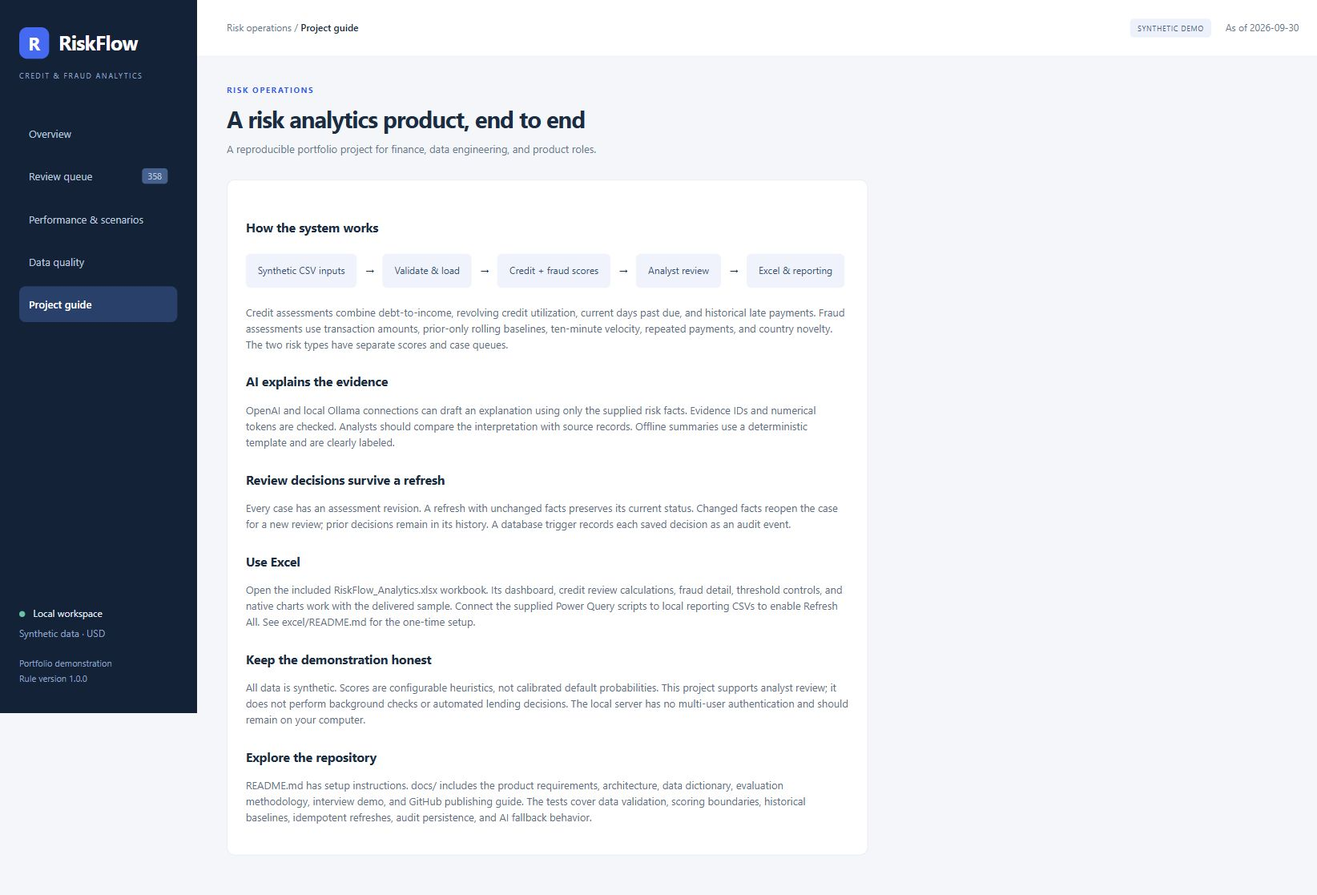
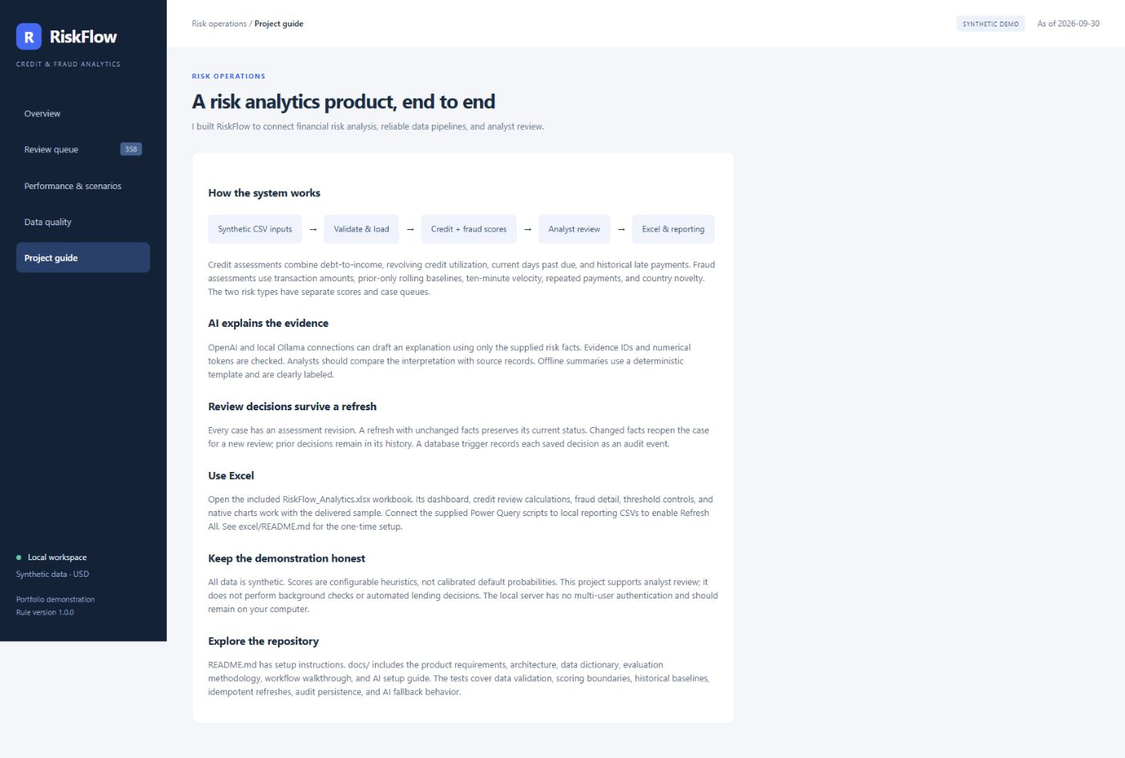
Describe RiskFlow in first person, remove coaching, and document AI setup

diff --git a/web/app.js b/web/app.js
@@ -25,7 +25,7 @@ function sourceTable(rows){if(!rows.length)return '<p>No records.</p>';const key
 async function openCase(id){activeCase=await api(`/api/case?id=${encodeURIComponent(id)}`);const c=activeCase;$('#case-content').innerHTML=`<div class="dialog-head"><div><p class="eyebrow">${esc(c.kind)} review · ${esc(c.customer_id)}</p><h2>${esc(c.case_id)}</h2><p class="intro">Score ${c.score}/100 · ${badge(c.band)} · ${usd(c.amount_cents)} ${c.kind==='credit'?'outstanding exposure':'transaction amount'}</p></div><button class="close" id="close-case" aria-label="Close case">×</button></div><div class="case-grid"><div><h3>Why this case was flagged</h3>${c.evidence.map(e=>`<div class="evidence"><div class="evidence-header"><strong>${esc(labels[e.id]||e.id)}</strong><span>+${e.points} points</span></div><p>${evidenceValue(e)}</p><small class="mono muted">${esc(e.id)}</small></div>`).join('')}<h3>Review summary</h3><div class="summary-tools"><select id="summary-provider" aria-label="Summary provider"><option value="offline">Offline template</option><option value="openai">OpenAI</option><option value="ollama">Local Ollama</option></select><button class="btn secondary" id="generate-summary">Generate summary</button></div><div id="summary-result" class="summary-box muted">Choose a summary provider. AI connections require local configuration.</div><details><summary>Source records${c.kind==='fraud'?' · latest 15 through this transaction':''}</summary>${sourceTable(c.source_records)}</details>${c.financial_profile?`<details><summary>Financial profile</summary>${sourceTable([c.financial_profile])}</details>`:''}</div><div><form class="review-form" id="decision-form"><h3>Record your review</h3><label>Analyst name<input id="analyst" required maxlength="64" value="${esc(c.analyst||localStorage.getItem('riskflow-analyst')||'')}"></label><label>Case status<select id="decision-status">${['Open','Investigating','Escalated','Closed - confirmed','Closed - false positive'].map(s=>`<option${s===c.status?' selected':''}>${s}</option>`).join('')}</select></label><label>Review notes<textarea id="notes" required minlength="5" maxlength="2000" placeholder="Record what you checked and why you chose this status.">${esc(c.notes)}</textarea></label><button class="btn" type="submit">Save review decision</button><p class="caption">“Confirmed” means an analyst-confirmed issue for this case type. Every saved decision creates an audit event.</p></form><details${c.history.length?' open':''}><summary>Review history (${c.history.length})</summary>${c.history.map(h=>`<div class="history-item"><strong>${esc(h.status)}</strong> · ${esc(h.analyst)}<p>${esc(h.notes)}</p><small class="muted">${esc(h.created_at)}${h.revision!==c.revision?' · previous assessment':''}</small></div>`).join('')||'<p class="muted">No decisions recorded yet.</p>'}</details></div></div>`;if(!$('#case-dialog').open)$('#case-dialog').showModal();$('#close-case').onclick=()=>$('#case-dialog').close();$('#generate-summary').onclick=async()=>{const button=$('#generate-summary');button.disabled=true;button.textContent='Generating…';try{const r=await api('/api/summary',{case_id:c.case_id,provider:$('#summary-provider').value});$('#summary-result').innerHTML=`${r.warning?`<div class="callout warning">${esc(r.warning)}</div>`:''}<p><strong>${r.provider==='offline-template'?'Offline template (no AI)':'AI explanation · '+esc(r.model)}</strong></p><p>${esc(r.summary)}</p><ul>${r.observations.map(o=>`<li>${esc(o.explanation)} <span class="mono">[${esc(o.evidence_id)}]</span></li>`).join('')}</ul><p>Next steps: ${r.next_steps.map(esc).join('; ')}.</p><small>${esc(r.validation)}</small>`;}catch(e){toast(e.message);}finally{button.disabled=false;button.textContent='Generate summary';}};$('#decision-form').onsubmit=async event=>{event.preventDefault();const button=event.target.querySelector('button');button.disabled=true;try{await api('/api/decision',{case_id:c.case_id,revision:c.revision,status:$('#decision-status').value,analyst:$('#analyst').value,notes:$('#notes').value});localStorage.setItem('riskflow-analyst',$('#analyst').value);await openCase(c.case_id);toast('Decision saved and audit event recorded.');await loadOverview();if(view==='queue')await fetchQueue();}catch(e){toast(e.message);}finally{button.disabled=false;}};}
 async function showAnalytics(){const e=await api('/api/evaluation');$('#content').innerHTML=heading('Understand the tradeoffs','Evaluate fixed rules against synthetic labels and preview the effect of review thresholds.')+`<section class="card"><div class="card-head"><h2>Synthetic benchmark</h2><span class="caption">Current review thresholds</span></div><div class="table-wrap"><table><thead><tr><th>Assessment</th><th>Threshold</th><th>Precision</th><th>Recall</th><th>False-positive rate</th><th>Alert rate</th></tr></thead><tbody>${Object.entries(e.results).map(([k,r])=>`<tr><td>${k==='credit'?'Credit review':'Fraud monitoring'}</td><td>${r.threshold}</td><td>${pct(r.precision)}</td><td>${pct(r.recall)}</td><td>${pct(r.false_positive_rate)}</td><td>${pct(r.alert_rate)}</td></tr>`).join('')}</tbody></table></div><div class="callout">Credit labels are simulated future defaults; fraud labels are injected transaction outcomes. These results describe this synthetic dataset and do not establish performance on real customers.</div></section><div class="grid-two scenarios">${['credit','fraud'].map(k=>`<section class="card"><div class="card-head"><h2>${k==='credit'?'Credit review':'Fraud monitoring'} threshold</h2></div><div class="range-row"><label for="${k}-threshold">Minimum review score</label><output id="${k}-value">40</output></div><input id="${k}-threshold" type="range" min="1" max="100" value="40"><div class="scenario-result" id="${k}-scenario"></div><p class="caption">Preview only. To change saved assessments, edit config/rules.json and rerun the pipeline.</p></section>`).join('')}</div><div class="download-links"><a href="/api/download?name=threshold_sensitivity.csv" download="threshold_sensitivity.csv">Download threshold sensitivity</a></div>`;for(const k of ['credit','fraud']){let timer;const update=async()=>{const n=$(`#${k}-threshold`).value;$(`#${k}-value`).textContent=n;const r=await api(`/api/scenario?kind=${k}&threshold=${n}`);$(`#${k}-scenario`).innerHTML=`<strong>${num(r.reviewed_records)} records</strong><span>${usd(r.reviewed_amount_cents)} ${k==='credit'?'exposure':'transaction volume'}</span>`;};$(`#${k}-threshold`).oninput=()=>{clearTimeout(timer);timer=setTimeout(()=>update().catch(e=>toast(e.message)),120);};await update();}}
 async function showQuality(){const d=await loadOverview();const r=d.latest_run;if(!r)throw Error('Run the pipeline first');const stats=JSON.parse(r.stats_json);$('#content').innerHTML=heading('Trust starts with the data','Validate source records, quarantine invalid transactions, and reconcile every accepted row.')+`<div class="metrics">${metric('Accepted transactions',num(stats.transactions.accepted_rows),'Loaded and scored exactly once')}${metric('Quarantined transactions',num(stats.transactions.rejected_rows),'Intentional defects in demo inputs')}${metric('Source systems',4,'Customers, loans, payments, transactions')}${metric('Latest pipeline duration',r.duration_seconds.toFixed(2)+'s','Measured local wall-clock runtime')}</div><section class="card"><div class="card-head"><h2>Validation results</h2><span class="caption">Latest successful run</span></div><table><thead><tr><th>Source</th><th>Input rows</th><th>Accepted</th><th>Rejected</th></tr></thead><tbody>${Object.entries(stats).map(([k,v])=>`<tr><td>${esc(k)}</td><td>${num(v.input_rows)}</td><td>${num(v.accepted_rows)}</td><td>${v.rejected_rows}</td></tr>`).join('')}</tbody></table><div class="callout">Accepted transaction counts and amounts reconciled to the database before commit. Five example defects exercise duplicate, missing-value, foreign-key, amount, and future-date checks.</div><p class="caption">Run: <span class="mono">${esc(r.run_id)}</span><br>Input SHA-256: <span class="mono">${esc(r.input_hash)}</span><br>Rules SHA-256: <span class="mono">${esc(r.rules_hash)}</span></p></section><div class="download-links"><a href="/api/download?name=quarantine.csv" download="quarantine.csv">Download quarantine log</a><a href="/api/download?name=audit_events.csv" download="audit_events.csv">Download analyst audit events</a></div>`;}
-function showAbout(){$('#content').innerHTML=heading('A risk analytics product, end to end','A reproducible portfolio project for finance, data engineering, and product roles.')+`<section class="card prose"><h2>How the system works</h2><div class="flow"><span>Synthetic CSV inputs</span>→<span>Validate & load</span>→<span>Credit + fraud scores</span>→<span>Analyst review</span>→<span>Excel & reporting</span></div><p>Credit assessments combine debt-to-income, revolving credit utilization, current days past due, and historical late payments. Fraud assessments use transaction amounts, prior-only rolling baselines, ten-minute velocity, repeated payments, and country novelty. The two risk types have separate scores and case queues.</p><h2>AI explains the evidence</h2><p>OpenAI and local Ollama connections can draft an explanation using only the supplied risk facts. Evidence IDs and numerical tokens are checked. Analysts should compare the interpretation with source records. Offline summaries use a deterministic template and are clearly labeled.</p><h2>Review decisions survive a refresh</h2><p>Every case has an assessment revision. A refresh with unchanged facts preserves its current status. Changed facts reopen the case for a new review; prior decisions remain in its history. A database trigger records each saved decision as an audit event.</p><h2>Use Excel</h2><p>Open the included RiskFlow_Analytics.xlsx workbook. Its dashboard, credit review calculations, fraud detail, threshold controls, and native charts work with the delivered sample. Connect the supplied Power Query scripts to local reporting CSVs to enable Refresh All. See excel/README.md for the one-time setup.</p><h2>Keep the demonstration honest</h2><p>All data is synthetic. Scores are configurable heuristics, not calibrated default probabilities. This project supports analyst review; it does not perform background checks or automated lending decisions. The local server has no multi-user authentication and should remain on your computer.</p><h2>Explore the repository</h2><p>README.md has setup instructions. docs/ includes the product requirements, architecture, data dictionary, evaluation methodology, interview demo, and GitHub publishing guide. The tests cover data validation, scoring boundaries, historical baselines, idempotent refreshes, audit persistence, and AI fallback behavior.</p></section>`;}
+function showAbout(){$('#content').innerHTML=heading('A risk analytics product, end to end','I built RiskFlow to connect financial risk analysis, reliable data pipelines, and analyst review.')+`<section class="card prose"><h2>How the system works</h2><div class="flow"><span>Synthetic CSV inputs</span>→<span>Validate & load</span>→<span>Credit + fraud scores</span>→<span>Analyst review</span>→<span>Excel & reporting</span></div><p>Credit assessments combine debt-to-income, revolving credit utilization, current days past due, and historical late payments. Fraud assessments use transaction amounts, prior-only rolling baselines, ten-minute velocity, repeated payments, and country novelty. The two risk types have separate scores and case queues.</p><h2>AI explains the evidence</h2><p>OpenAI and local Ollama connections can draft an explanation using only the supplied risk facts. Evidence IDs and numerical tokens are checked. Analysts should compare the interpretation with source records. Offline summaries use a deterministic template and are clearly labeled.</p><h2>Review decisions survive a refresh</h2><p>Every case has an assessment revision. A refresh with unchanged facts preserves its current status. Changed facts reopen the case for a new review; prior decisions remain in its history. A database trigger records each saved decision as an audit event.</p><h2>Use Excel</h2><p>Open the included RiskFlow_Analytics.xlsx workbook. Its dashboard, credit review calculations, fraud detail, threshold controls, and native charts work with the delivered sample. Connect the supplied Power Query scripts to local reporting CSVs to enable Refresh All. See excel/README.md for the one-time setup.</p><h2>Keep the demonstration honest</h2><p>All data is synthetic. Scores are configurable heuristics, not calibrated default probabilities. This project supports analyst review; it does not perform background checks or automated lending decisions. The local server has no multi-user authentication and should remain on your computer.</p><h2>Explore the repository</h2><p>README.md has setup instructions. docs/ includes the product requirements, architecture, data dictionary, evaluation methodology, workflow walkthrough, and AI setup guide. The tests cover data validation, scoring boundaries, historical baselines, idempotent refreshes, audit persistence, and AI fallback behavior.</p></section>`;}
 async function navigate(next){view=next;$('#breadcrumb').textContent=titles[next];document.querySelectorAll('.nav').forEach(b=>b.classList.toggle('active',b.dataset.view===next));$('#content').innerHTML='<p class="loading">Loading…</p>';try{await ({overview:showOverview,queue:showQueue,analytics:showAnalytics,quality:showQuality,about:showAbout}[next])();}catch(e){$('#content').innerHTML=heading('Workspace needs attention',esc(e.message))+`<div class="callout">From the project folder run <code>python -m riskflow demo</code>, then reload this page.</div>`;}}
 document.querySelectorAll('.nav').forEach(button=>button.onclick=()=>navigate(button.dataset.view));
 api('/api/session').then(s=>{csrf=s.csrf;return navigate('overview');}).catch(e=>{$('#content').textContent=e.message;});

diff --git a/README.md b/README.md
@@ -1,6 +1,6 @@
 # RiskFlow — Credit Risk & Fraud Analytics
 
-A local analyst workspace that turns synthetic financial records into separate credit assessments and transaction alerts, explains the evidence, records review decisions, and produces Excel reporting feeds.
+I built RiskFlow to explore how financial risk analysis, reliable data pipelines, and product design fit together in one analyst workflow. It turns synthetic financial records into separate credit assessments and transaction alerts, makes the supporting evidence visible, preserves review decisions, and feeds an Excel reporting layer.
 
 **Python · SQL · SQLite / MySQL · Excel · optional OpenAI / Ollama**
 
@@ -8,9 +8,26 @@ A local analyst workspace that turns synthetic financial records into separate c
 [![Python 3.11+](https://img.shields.io/badge/Python-3.11%2B-3776AB)](https://www.python.org/downloads/)
 [![License: MIT](https://img.shields.io/badge/License-MIT-54657A)](LICENSE)
 
-[Open the Excel workbook](excel/RiskFlow_Analytics.xlsx) · [Architecture](docs/ARCHITECTURE.md) · [Product requirements](docs/PRODUCT_REQUIREMENTS.md) · [Five-minute demo](docs/DEMO_WALKTHROUGH.md)
+[Open the Excel workbook](excel/RiskFlow_Analytics.xlsx) · [Architecture](docs/ARCHITECTURE.md) · [Product requirements](docs/PRODUCT_REQUIREMENTS.md) · [Workflow walkthrough](docs/DEMO_WALKTHROUGH.md) · [AI setup](docs/AI_SETUP.md)
 
 ![RiskFlow dashboard](docs/images/dashboard.jpg)
+
+## Why I built it
+
+My starting point was a SQL transaction-monitoring prototype. I wanted to take that foundation beyond a list of anomaly flags and build a workflow that answers three questions: what needs review, why was it flagged, and what happened after someone investigated it?
+
+The intersection of finance and technology is what interests me about this project. I wanted the financial indicators, data-quality checks, interface, and reporting outputs to tell the same story. That led me to keep credit review and fraud monitoring separate while bringing their evidence and review history into one workspace.
+
+## My design choices
+
+- **Make the score inspectable.** I used explicit rules so each case shows the observed value, trigger, and point contribution. The scores prioritize review; they are not default probabilities.
+- **Build trust in the inputs first.** I added strict data contracts, quarantine, integer-cent reconciliation, and atomic database refreshes before adding explanations.
+- **Respect time.** I calculate fraud baselines from prior observations so later transactions cannot influence an earlier assessment.
+- **Preserve the investigation.** I tied decisions to an assessment revision and retained audit history so a refresh does not silently erase review work.
+- **Give AI a bounded role.** I integrated optional OpenAI and local Ollama adapters to explain existing evidence. The rules determine scores, and the analyst records the decision.
+- **Keep reporting practical.** I included Excel formulas, adjustable thresholds, charts, and a Power Query connection path alongside the application.
+
+I used entirely synthetic data to make the work reproducible and shareable. The benchmark deliberately exposes false positives and missed cases; I treat those tradeoffs as part of the product problem.
 
 ## Visual walkthrough
 
@@ -208,7 +225,7 @@ Windows users can substitute `py -3` for `python`. macOS/Linux users can substit
 | AI | Optional Responses API and local Ollama adapters, structured explanations, evidence checks, numerical checks, visible offline fallback |
 | Excel | Populated workbook, formulas, adjustable thresholds, charts, filterable tables, reporting feeds, Power Query scripts and a Windows connection helper |
 | Measurement | Synthetic confusion matrices, precision/recall/false-positive rates, threshold sensitivity, measured pipeline runtime |
-| Portfolio documentation | PRD, architecture, data dictionary, methodology, demo walkthrough, role-specific resume language and GitHub publishing guide |
+| Documentation | My product requirements, architecture decisions, data dictionary, evaluation methodology, workflow walkthrough and integration setup |
 
 ## Reproduce the included benchmark
 
@@ -240,6 +257,8 @@ python -m unittest discover -s tests -v
 The delivered Excel workbook contains the 300-account baseline. The optional Excel refresh helper adjusts calculation rows and reporting ranges when the exported dataset changes. Review dashboard charts after refresh.
 
 ## Enable AI explanations
+
+I implemented both provider adapters in `riskflow/ai.py`. Live use requires local configuration; the published screenshots use the explicitly labeled offline template. See the [step-by-step AI setup](docs/AI_SETUP.md), including how to verify a real provider response.
 
 ### OpenAI
 
@@ -286,26 +305,25 @@ web/               Dashboard HTML, CSS and JavaScript
 data/raw/          Reproducible synthetic CSVs and evaluation-only labels
 reports/           Generated benchmark, reporting CSVs and QA evidence
 excel/             Populated workbook, Power Query scripts, refresh helper
-docs/              Product/design/methodology/demo/GitHub guides
+docs/              Product requirements, design decisions, evaluation and setup
 tests/             Unit and integration tests
 .github/workflows/  Windows/Linux core checks and live MySQL CI job
 ```
 
 ## Project boundaries and verification
 
-The project implements a complete **local portfolio demonstration**. It does not include background checks, automated credit approval, a calibrated credit model, bank integrations, production authentication, or a deployed cloud service. The synthetic generator makes both normal anomalies and subtle injected fraud, so the rules visibly miss cases and generate false positives.
+I scoped RiskFlow as a reproducible **local risk analytics application**. It does not include background checks, automated credit approval, a calibrated credit model, bank integrations, production authentication, or a deployed cloud service. The synthetic generator makes both normal anomalies and subtle injected fraud, so the rules visibly miss cases and generate false positives.
 
-See [verification report](docs/VERIFICATION.md) for what was actually run, what used mocked API responses, and which integrations need verification on your machine. The local HTTP server binds to loopback and should stay local.
+I document completed checks, mocked provider tests, and remaining integration limits in the [verification report](docs/VERIFICATION.md). The local HTTP server binds to loopback and should stay local.
 
-## Put it on GitHub
+## What I would build next
 
-Follow [the step-by-step GitHub guide](docs/GITHUB_GUIDE.md). Publish the **extracted project contents**, not just the ZIP. The included `.gitignore` excludes keys, local databases, virtual environments and generated AI summaries.
+My next priorities are evaluation on a permitted dataset with an untouched temporal test period, cost-sensitive thresholds, and analyst usability testing. A calibrated credit model would be a separate addition to the current review-priority rules. A hosted version would also need authentication, access controls, and operational monitoring.
 
 ## References
 
 - [OpenAI Structured Outputs](https://developers.openai.com/api/docs/guides/structured-outputs): optional structured explanation contract.
 - [MySQL Connector/Python connection documentation](https://dev.mysql.com/doc/connector-python/en/connector-python-example-connecting.html): optional database adapter.
-- [GitHub's import guide](https://docs.github.com/en/migrations/importing-source-code/using-the-command-line-to-import-source-code/adding-locally-hosted-code-to-github): publication workflow.
 
 ## License
 

diff --git a/docs/DEMO_WALKTHROUGH.md b/docs/DEMO_WALKTHROUGH.md
@@ -1,21 +1,37 @@
-# Five-minute interview demonstration
+# RiskFlow workflow walkthrough
 
-Start with `python -m riskflow demo` then `python -m riskflow serve`. Open the dashboard and example workbook before the interview.
+I designed the application around the path from an incoming financial record to an auditable review decision. This walkthrough follows that path using the included synthetic snapshot.
 
-1. **Problem and user (30 seconds).** “I built a synthetic analyst workspace to prioritize credit reviews and suspicious transactions, show the evidence, and capture review decisions.” Explain that a credit review priority and a fraud alert are different outcomes.
-2. **Portfolio view (45 seconds).** Show 300 accounts, outstanding loan exposure, 18,219 monitored transactions and the separate queues. Explain why transaction volume is not loan exposure and why a snapshot cannot show loan-exposure growth.
-3. **Credit case (60 seconds).** Open `credit:C0005`. Inspect DTI, utilization, days past due and late history. Show the repayment records. Discuss why fully paid but late installments are not currently overdue. Save a clearly identified demonstration note with status Investigating.
-4. **Fraud case (60 seconds).** In the queue filter Type to Fraud monitoring. Open a case with amount/velocity/repeated-payment evidence. Explain how the baseline excludes the current transaction and later records. An alert means “review,” not proven fraud.
-5. **AI and review history (30 seconds).** Generate the offline template, or a live AI summary if configured and already tested. Show evidence IDs and explain the checks and limitations. Demonstrate that a saved decision creates an audit event and that unchanged reruns preserve status.
-6. **Measurement and Excel (60 seconds).** Show synthetic precision/recall and move a review-threshold slider. Discuss review workload versus misses. Open Excel, change the credit review threshold in Controls, and show the count/credit bands update. Reset it to 40. Explain the optional CSV/Power Query refresh.
-7. **Close with a tradeoff (15 seconds).** “I chose a reproducible batch workflow and transparent heuristics first. The next evidence-gathering step would be a permitted dataset and a temporal holdout, plus analyst usability testing.”
+## Start the workspace
 
-## Questions to prepare for
+Run `python -m riskflow demo`, then `python -m riskflow serve`. Open http://127.0.0.1:8000 and `excel/RiskFlow_Analytics.xlsx`.
 
-- Why are the scores not default probabilities? Because weights are illustrative; there is no fitted/calibrated model.
-- How do you prevent leakage? Separate label file; cutoff validation; prior-only transaction baselines; append-after-score processing.
-- What if the job fails halfway? Current database data is replaced in one transaction; failures roll back. Filesystem report export is a separate post-commit step.
-- What happens to old reviews? Batch input/rules revision changes reopen current cases while history remains.
-- Why SQL and Python? SQL manages keys, indexes, views and audit triggers; Python handles strict ingestion and temporal feature/scoring logic.
-- What proves AI quality? Structural/reference/numeric checks and test fixtures; no claim that they fully verify semantics.
-- What did you learn or change yourself? Be specific about your own work; review the supplied code, run it and make an improvement you can defend.
+## Portfolio overview
+
+The overview contains 300 accounts and 18,219 accepted transactions. I separate outstanding loan exposure from transaction volume because they describe different financial quantities. Credit bands summarize the as-of loan snapshot; the activity chart shows fraud alerts over time.
+
+## Credit assessment
+
+Open `credit:C0005` from the queue. The evidence cards show debt-to-income, utilization, current days past due, and historical late payments. Expand Source records and Financial profile to inspect the inputs. I distinguish unpaid delinquency from fully paid installments that were late.
+
+Enter an analyst name, select Investigating, and save a clearly identified synthetic review note. The decision appears in review history and creates a database audit event.
+
+## Fraud investigation
+
+Filter the queue to Fraud monitoring and search for `T0014426`. This case combines an amount spike, rapid activity, and repeated payments into an 85-point review score. Expand its recent source records to inspect the payment burst. The baseline uses only earlier observations; the alert remains a reason to investigate, not proof of fraud.
+
+## Explanation and review history
+
+Generate an Offline template summary to inspect the evidence-linked format without an AI service. For a live provider, follow [AI setup](AI_SETUP.md) and choose OpenAI or Local Ollama. I validate evidence references and numerical tokens, while leaving interpretation and decisions with the analyst.
+
+An unchanged pipeline rerun preserves the current decision. Changed inputs or rules create a new revision and reopen the case while retaining history.
+
+## Thresholds and Excel
+
+Open Performance & scenarios to inspect synthetic precision, recall, false-positive rate, and workload at different cutoffs. Preview sliders do not overwrite stored rules.
+
+In Excel, change the credit review threshold on Controls and inspect the updated Dashboard count. Restore the baseline value of 40 when finished. The [Excel guide](../excel/README.md) explains how to connect Power Query, refresh reporting feeds, and create a native PivotTable.
+
+## Data quality
+
+The quality view reconciles accepted counts and transaction amounts and shows five intentional defects in quarantine. Source and rule hashes identify the snapshot behind each run. I included these controls so the reports can be traced back to validated inputs.

diff --git a/docs/AI_SETUP.md b/docs/AI_SETUP.md
@@ -1,0 +1,69 @@
+# Enable AI explanations
+
+I integrated two optional explanation providers in `riskflow/ai.py`: OpenAI's Responses API and a local Ollama service. Both receive the existing scored evidence and return a summary, cited observations, and suggested review steps. Neither provider calculates the risk score or records a decision.
+
+The default Offline template is deterministic and explicitly labeled **no AI**. The included AI tests use mocked provider responses; a successful live response must be verified separately after setup.
+
+## OpenAI setup on Windows
+
+1. Create an API key in the [OpenAI developer platform](https://platform.openai.com/api-keys) and configure API billing/access as required by that account. Keep the key private; do not paste it into GitHub, the browser source, or an issue.
+2. Open PowerShell in the extracted RiskFlow folder, which contains `README.md`. Create a local configuration file only if one does not already exist:
+
+   ```powershell
+   if (!(Test-Path .env)) { Copy-Item .env.example .env }
+   notepad .env
+   ```
+
+3. Fill in these two existing lines, save the file, and close Notepad:
+
+   ```dotenv
+   OPENAI_API_KEY=YOUR_PRIVATE_API_KEY
+   OPENAI_MODEL=YOUR_STRUCTURED_OUTPUTS_COMPATIBLE_MODEL_ID
+   ```
+
+   Replace both placeholders. Choose an API model available to the account that supports the Responses API and Structured Outputs. The model ID is an API identifier, not a ChatGPT display name. The existing Python adapter makes the HTTP request directly; an extra OpenAI SDK installation is not required.
+
+4. Generate the synthetic workspace if this is the first run:
+
+   ```powershell
+   python -m riskflow demo
+   ```
+
+5. Test one explanation:
+
+   ```powershell
+   python -m riskflow summary --provider openai --case credit:C0005
+   ```
+
+6. For the interface, run `python -m riskflow serve`, open http://127.0.0.1:8000, open a case, select **OpenAI**, and click **Generate summary**. Restart an existing RiskFlow server after changing configuration because already-loaded environment values take precedence.
+
+On Windows, `py -3` can replace `python` if needed. The `.env` file is excluded from Git and the packaged project.
+
+## Verify the live result
+
+A successful command response has `provider: "openai"`, the model identifier, cited `evidence_id` values, and no warning. The interface labels it **AI explanation**. Check the interpretation against the visible case evidence before using it.
+
+If the response instead has `provider: "offline-template"`, the live call or validation failed. A successful command exit alone does not prove a live AI call succeeded. Check API access/billing, the key, model compatibility, the network connection, and server restart. A provider response can also be rejected for unsupported evidence or invented numerical tokens.
+
+The validation checks structure, allowed next steps, references, numerical tokens, and selected disallowed decision language. It cannot establish that every generated sentence is factually correct.
+
+## Local Ollama option
+
+Install Ollama from its official site and start its local service. The adapter expects `http://127.0.0.1:11434`. The default model is `llama3.2`; download that model using `ollama pull llama3.2`, or set `OLLAMA_MODEL` in `.env` to an installed compatible model.
+
+Run:
+
+```powershell
+python -m riskflow summary --provider ollama --case credit:C0005
+```
+
+Alternatively choose **Local Ollama** in a case's summary menu. Confirm that the returned provider is `ollama`, rather than the fallback, and inspect the generated explanation.
+
+## Data flow
+
+I send only the synthetic case ID, risk type, score, band, evidence, and allowed next steps. Analyst notes, evaluation labels, and credentials are excluded from the fact packet. OpenAI requests use `store: false`; that setting is not a guarantee of zero retention under every service policy. Local summaries are saved under ignored `reports/summaries/` when invoked through the application or CLI.
+
+## References
+
+- [Official OpenAI developer quickstart](https://developers.openai.com/api/docs/quickstart): API keys and first requests.
+- [Official OpenAI Structured Outputs guide](https://developers.openai.com/api/docs/guides/structured-outputs): schema-constrained responses and supported model requirements.

diff --git a/docs/EVALUATION.md b/docs/EVALUATION.md
@@ -1,6 +1,6 @@
 # Evaluation and interpretation
 
-The benchmark uses 300 accounts and 18,219 valid transactions with a fixed seed of 42. Inputs are entirely synthetic. There are 80 simulated future-default accounts and 170 injected fraud transactions. The rule thresholds were fixed for this demonstration; the sensitivity grid is descriptive. There is no trained model or held-out real-world benchmark.
+I evaluated the rules on 300 accounts and 18,219 valid transactions with a fixed seed of 42. Inputs are entirely synthetic. There are 80 simulated future-default accounts and 170 injected fraud transactions. The rule thresholds were fixed for this demonstration; the sensitivity grid is descriptive. There is no trained model or held-out real-world benchmark.
 
 ## Results at threshold 40
 
@@ -31,9 +31,9 @@ Credit results evaluate a **review-priority heuristic** against stochastic synth
 
 Undefined rates use null rather than zero. No-alert precision and no-positive recall are unavailable by definition. Quarantined rows are excluded from scoring and evaluation; accepted records must each have exactly one matching label.
 
-## What you can claim
+## Interpretation limits
 
-You can report the reproducible record counts, validation checks, synthetic precision/recall, separate risk scoring, prior-only baselines, review persistence and measured local runtime. You cannot claim real fraud prevented, lending losses reduced, improved underwriting accuracy, user time saved, or production scale from this dataset.
+I use this benchmark to check reproducibility, review workload, and detection tradeoffs on synthetic data. It does not establish real fraud prevented, lending losses reduced, improved underwriting accuracy, analyst time saved, or production scale.
 
 ## More rigorous next experiment
 

diff --git a/docs/VERIFICATION.md b/docs/VERIFICATION.md
@@ -24,7 +24,7 @@ Built and checked on October 14, 2026. Business snapshot: September 30, 2026. Ru
 - **OpenAI/Ollama:** adapter contracts, structured responses, refusals and fallback paths were tested with mocked provider responses. No paid API key or local language model was available for a live model call. Live use requires user configuration and checking actual generated explanations.
 - **MySQL:** the live MySQL 8.4 integration job passed in GitHub Actions, exercising generation, pipeline, saved review, native audit trigger, rerun persistence, evaluation and reporting export. No local MySQL service was used.
 - **Native Excel:** the workbook itself was generated, recalculated, exported and visually checked. Power Query connection and native PivotTable creation depend on the user's Excel installation; the helper was syntax-checked but not executed in desktop Excel. Check query refresh and formula calculation locally.
-- **GitHub:** all 90 project files were published and matched local file bytes. [Workflow run 38668738260](https://github.com/DaniyalHayat/riskflow-credit-fraud/actions/runs/38668738260) passed all five jobs on commit `cf370e6d1cafcf01c1e2f0b5748e9fffbd1b0bb8`: Python 3.11/3.12 on Ubuntu and Windows, plus live MySQL 8.4. Subsequent guide/verification edits do not change runtime code.
+- **GitHub:** all project files were published and matched local file bytes. [Workflow run 38668738260](https://github.com/DaniyalHayat/riskflow-credit-fraud/actions/runs/38668738260) passed all five jobs on commit `cf370e6d1cafcf01c1e2f0b5748e9fffbd1b0bb8`: Python 3.11/3.12 on Ubuntu and Windows, plus live MySQL 8.4. Subsequent guide/verification edits do not change runtime code.
 
 ## Interpreting the results
 

diff --git a/docs/PRODUCT_REQUIREMENTS.md b/docs/PRODUCT_REQUIREMENTS.md
@@ -2,13 +2,13 @@
 
 ## Problem and user
 
-A risk operations analyst needs to find financial accounts and transactions that warrant review, understand the specific evidence, and record a decision consistently. A SQL flag alone does not provide a usable investigation workflow or show the tradeoff between review volume and detection.
+I defined the product around one user problem: a risk operations analyst needs to find financial accounts and transactions that warrant review, understand the specific evidence, and record a decision consistently. A SQL flag alone does not provide a usable investigation workflow or show the tradeoff between review volume and detection.
 
 **Primary user:** credit/fraud analyst at a hypothetical lender or fintech. **Secondary users:** risk manager monitoring exposure, data engineer maintaining the pipeline, and product manager evaluating review friction and coverage.
 
 ## MVP objective
 
-Deliver one local workspace where an analyst can inspect a prioritized case, trace the score to financial/transaction records, and save a disposition. Support two separate risk types in one interface. Use reproducible synthetic data so the demonstration is shareable.
+My MVP goal was one local workspace where an analyst can inspect a prioritized case, trace the score to financial/transaction records, and save a disposition. Support two separate risk types in one interface. Use reproducible synthetic data so the demonstration is shareable.
 
 ## User stories and acceptance criteria
 

diff --git a/START_HERE.md b/START_HERE.md
@@ -1,4 +1,4 @@
-# Your completed RiskFlow project
+# Run RiskFlow locally
 
 This folder contains the project code, complete synthetic data, generated reports, dashboard, tests, Excel workbook and documentation. It is ready for a local demonstration.
 
@@ -19,13 +19,9 @@ python -m riskflow serve
 
 If port 8000 is busy, run `python -m riskflow serve --port 8002` and visit http://127.0.0.1:8002. If Python is not recognized on Windows, try `py -3` or reinstall Python with Add Python to PATH selected.
 
-## Publish it
+## Explore the workflow
 
-Follow **docs/GITHUB_GUIDE.md**. The simplest route is GitHub Desktop → Add local repository → create one here if needed → Commit → Publish repository. Publish the project contents, not the ZIP alone.
-
-## Learn it before an interview
-
-Read README.md, then docs/DEMO_WALKTHROUGH.md. Run the tests and inspect one credit and one fraud case. The supplied resume wording is in docs/RESUME_AND_ROLE_GUIDE.md.
+I explain the project motivation and design choices in README.md. The [workflow walkthrough](docs/DEMO_WALKTHROUGH.md) follows a credit assessment, a fraud investigation, review history, and Excel reporting. The [AI setup guide](docs/AI_SETUP.md) covers live explanations.
 
 ## Optional services
 

diff --git a/docs/ARCHITECTURE.md b/docs/ARCHITECTURE.md
@@ -1,5 +1,7 @@
 # Architecture and design decisions
 
+I organized RiskFlow around a reproducible batch pipeline, an inspectable review workflow, and a separate reporting layer. I chose transparent rules and relational controls so the path from source records to an analyst decision remains visible.
+
 ```mermaid
 flowchart LR
   G[Seeded synthetic generator] --> C[CSV customer / loan / payment / transaction inputs]
